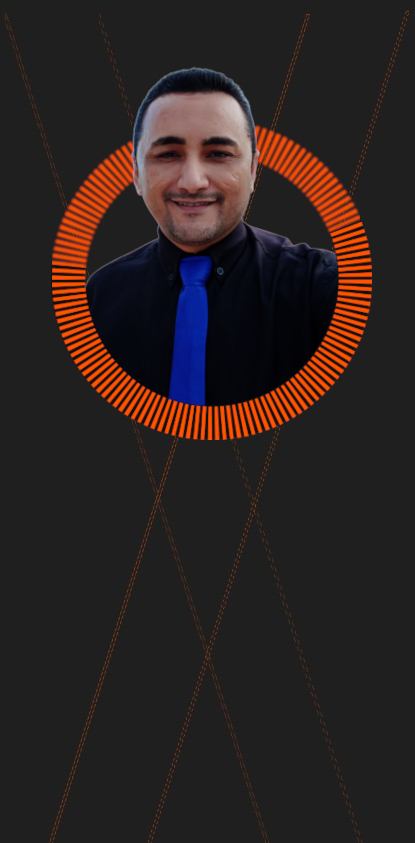
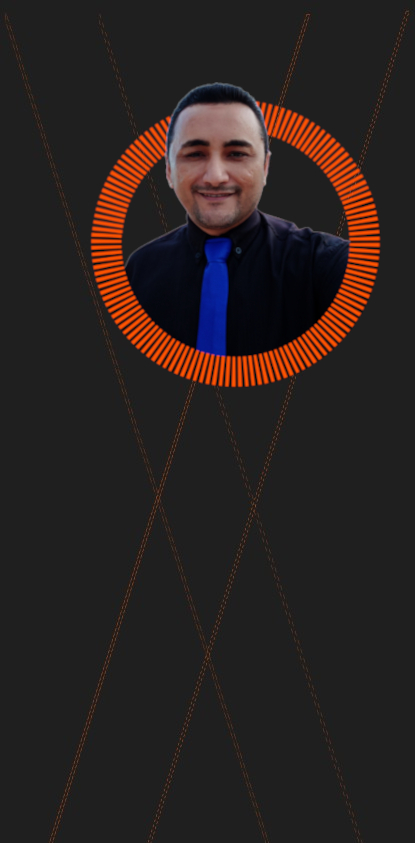
Update project

Changed region(s): [[0.1157, 0.0617, 0.9253, 0.5243]]

diff --git a/assets/css/style.css b/assets/css/style.css
@@ -930,9 +930,13 @@ footer .copy {
         background-position: center 0;
     }
 
+    .home .max-width {
+        padding: 100px 15px 0 15px;
+    }
+
     .home .home-content .text-1 {
-        font-size: 18px;
-        line-height: 22px;
+        font-size: 20px;
+        line-height: 24px;
     }
 
     .home .home-content .text-2 {
